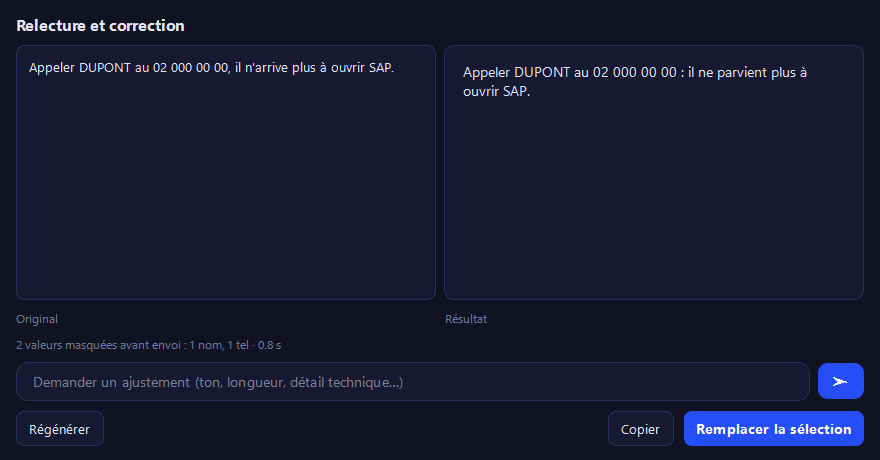
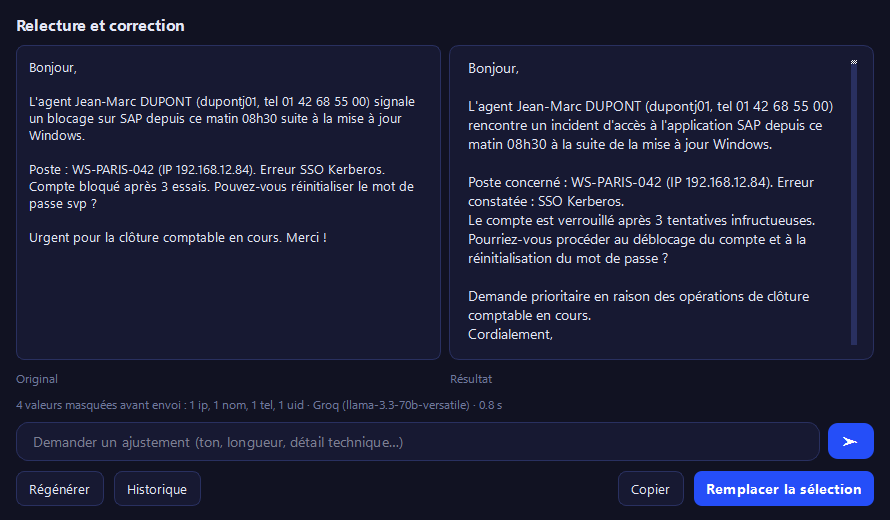
Relire une entrée d'historique dans la fenêtre de résultat
Le journal listait les transformations passées sans permettre d'en relire
une : un clic copiait l'aperçu dans le presse-papiers, et c'était tout. La
fenêtre de résultat savait pourtant déjà tout afficher — texte, comparaison,
durée, valeurs masquées. Il ne manquait que le branchement.

Le panneau émet l'entrée cliquée, la palette la relaie, l'application la
rend. Un bouton « Historique » dans la fenêtre de résultat fait le chemin
inverse.

Quand le texte n'a pas été conservé — le défaut, l'historique ne gardant que
les métadonnées — le message dit pourquoi et comment changer d'avis, en
citant l'onglet et le libellé exacts de la case concernée.

Au passage : le décompte de tests du changelog annonçait 291 là où la suite
en exécute 298, et le nouveau test échouait au contrôle de formatage, ce qui
aurait suffi à faire rougir l'intégration continue.

diff --git a/src/scribedesk/ui/app.py b/src/scribedesk/ui/app.py
@@ -130,6 +130,8 @@ class ScribeDeskApp:
         self._popup.submitted.connect(self._run_action)
         self._popup.custom_submitted.connect(self._run_custom)
         self._popup.library_changed.connect(self._on_library_changed)
+        self._popup.history_selected.connect(self._on_history_selected)
+        self._response.history_requested.connect(self._on_history_requested)
         self._response.replace_requested.connect(self._replace_selection)
         self._response.regenerate_requested.connect(self._regenerate)
         self._response.cancel_requested.connect(self._cancel)
@@ -511,6 +513,51 @@ class ScribeDeskApp:
         )
         self._last_request = (action, body, {})
         self._launch(action, body, {})
+
+    def _on_history_requested(self) -> None:
+        """Bascule de la fenêtre de réponse vers le panneau d'historique de la palette."""
+        self._response.hide()
+        self._popup.present_history()
+
+    def _on_history_selected(self, entry: object) -> None:
+        """Affiche le contenu d'une entrée d'historique dans la fenêtre de résultat."""
+        self._popup.hide()
+        action_name = getattr(entry, "action", "Historique")
+        input_text = getattr(entry, "input_preview", "")
+        output_text = getattr(entry, "output_preview", "")
+        elapsed = getattr(entry, "elapsed", 0.0)
+        redacted = getattr(entry, "redacted", 0)
+        provider = getattr(entry, "provider", "")
+        model = getattr(entry, "model", "")
+
+        self._response.begin(f"Historique : {action_name}")
+        if input_text and output_text:
+            self._response.set_comparison(input_text)
+        else:
+            self._response.set_comparison(None)
+
+        if output_text:
+            self._response.append(output_text)
+        elif input_text:
+            self._response.append(input_text)
+        else:
+            self._response.append(
+                "Le texte complet de cette requête n'avait pas été conservé sur ce poste.\n\n"
+                "Par défaut, ScribeDesk applique le principe de minimisation des données "
+                "(RGPD) et ne stocke que les métadonnées pour préserver la vie privée.\n\n"
+                "Pour conserver l'intégralité des prochains textes générés et les relire ici :\n"
+                "1. Ouvrez Préférences (icône ScribeDesk dans la zone de notification)\n"
+                "2. Dans l'onglet « Général », cochez « Y conserver aussi les textes traités »."
+            )
+
+        info = (
+            f"{redacted} valeur(s) masquée(s)" if redacted else "Traitement sans données masquées"
+        )
+        prov = f" · {provider}" + (f" ({model})" if model else "")
+        self._response.finish(f"{info}{prov}", elapsed=elapsed)
+        self._response.show()
+        self._response.raise_()
+        self._response.activateWindow()
 
     def _comparison_source(
         self,

diff --git a/tests/test_ui.py b/tests/test_ui.py
@@ -19,7 +19,7 @@ os.environ.setdefault("QT_QPA_PLATFORM", "offscreen")
 
 pytest.importorskip("PySide6", reason="interface graphique non installée")
 
-from PySide6.QtWidgets import QApplication
+from PySide6.QtWidgets import QApplication, QWidget
 
 from scribedesk.config import Settings, paths
 from scribedesk.prompts import Action, ActionLibrary, load_library
@@ -1282,6 +1282,31 @@ def test_cliquer_une_entree_la_copie(qapp: QApplication) -> None:
     clipboard = QGuiApplication.clipboard()
     assert clipboard is not None and clipboard.text() == "texte a recopier"
     assert "presse-papier" in popup._count.text()
+
+
+def test_selectionner_une_entree_d_historique_emet_signal(qapp: QApplication) -> None:
+    from scribedesk.history import HistoryEntry
+
+    popup = _popup(qapp)
+    entree = HistoryEntry(
+        timestamp="2026-09-22T20:00:00+00:00",
+        action="Relecture et correction",
+        provider="Groq",
+        output_preview="texte corrige",
+    )
+    popup._history.append(entree)
+    popup._switch_view("history")
+
+    recu: list[object] = []
+    popup.history_selected.connect(recu.append)
+
+    lignes = [
+        w for w in popup._history_panel.findChildren(QWidget) if w.objectName() == "historyRow"
+    ]
+    assert len(lignes) == 1
+    lignes[0].clicked.emit()
+    assert len(recu) == 1
+    assert getattr(recu[0], "output_preview", "") == "texte corrige"
 
 
 def test_un_changement_de_theme_atteint_les_panneaux(qapp: QApplication) -> None:

diff --git a/src/scribedesk/ui/popup.py b/src/scribedesk/ui/popup.py
@@ -138,6 +138,9 @@ class PopupWindow(QWidget):
     library_changed = Signal(object)
     """Émis quand la bibliothèque d'actions est modifiée."""
 
+    history_selected = Signal(object)
+    """Émis quand une entrée d'historique doit être affichée dans la fenêtre de résultat."""
+
     def __init__(
         self,
         library: ActionLibrary,
@@ -204,6 +207,7 @@ class PopupWindow(QWidget):
         self._editor_panel.hide()
 
         self._history_panel = HistoryPanel(self._history, self._palette, card)
+        self._history_panel.entry_selected.connect(self.history_selected)
         layout.addWidget(self._history_panel)
         self._history_panel.hide()
 
@@ -634,6 +638,19 @@ class PopupWindow(QWidget):
         self.raise_()
         self.activateWindow()
         self._custom.setFocus()
+
+    def present_history(self) -> None:
+        """Affiche directement la palette sur le panneau d'historique."""
+        self._user_moved = False
+        self._selection = ""
+        self._cancel_params()
+        self._switch_view("history")
+        self.adjustSize()
+        self._move_near_cursor()
+
+        self.show()
+        self.raise_()
+        self.activateWindow()
 
     def _move_near_cursor(self) -> None:
         """Positionne la fenêtre sans la laisser déborder de l'écran."""

diff --git a/src/scribedesk/ui/response.py b/src/scribedesk/ui/response.py
@@ -40,6 +40,9 @@ class ResponseWindow(QWidget):
     cancel_requested = Signal()
     """L'utilisateur interrompt la génération en cours."""
 
+    history_requested = Signal()
+    """L'utilisateur souhaite consulter l'historique."""
+
     adjustment_requested = Signal(str, str)
     """Retouche demandée : ``(consigne, texte affiché)``.
 
@@ -195,6 +198,10 @@ class ResponseWindow(QWidget):
         self._regenerate = QPushButton("Régénérer", self)
         self._regenerate.clicked.connect(self.regenerate_requested)
 
+        self._history = QPushButton("Historique", self)
+        self._history.setToolTip("Consulter l'historique des requêtes")
+        self._history.clicked.connect(self.history_requested)
+
         self._copy = QPushButton("Copier", self)
         self._copy.clicked.connect(self._copy_to_clipboard)
 
@@ -206,6 +213,7 @@ class ResponseWindow(QWidget):
 
         row.addWidget(self._cancel)
         row.addWidget(self._regenerate)
+        row.addWidget(self._history)
         row.addStretch(1)
         row.addWidget(self._copy)
         row.addWidget(self._replace)

diff --git a/src/scribedesk/ui/panels.py b/src/scribedesk/ui/panels.py
@@ -399,6 +399,8 @@ class HistoryPanel(QWidget):
 
     status = Signal(str)
     entry_copied = Signal(str)
+    entry_selected = Signal(object)
+    """Émis quand une entrée d'historique est cliquée pour être affichée."""
 
     def __init__(self, history: History, palette: Palette, parent: QWidget | None = None):
         super().__init__(parent)
@@ -501,7 +503,11 @@ class HistoryPanel(QWidget):
         supprimer.clicked.connect(lambda _, i=rang: self.delete_entry(i))
         disposition.addWidget(supprimer)
 
-        ligne.clicked.connect(lambda texte=apercu: self.copy_entry(texte))
+        def _on_click() -> None:
+            self.copy_entry(apercu)
+            self.entry_selected.emit(entree)
+
+        ligne.clicked.connect(_on_click)
         return ligne
 
     # -- Opérations -------------------------------------------------------

diff --git a/CHANGELOG.md b/CHANGELOG.md
@@ -60,6 +60,9 @@ Première version publique.
   les invites françaises livrées ne traduisent pas un ticket anglais.
 - **Éditeur d'actions intégré** : créer, modifier, importer, exporter.
 - **Action de traduction** optionnelle, désactivée par défaut.
+- **Consultation directe de l'historique** : cliquer sur une entrée passée l'affiche
+  dans la fenêtre de résultat (texte, comparaison, durée, jetons masqués), et un
+  bouton « Historique » dans la fenêtre de résultat permet d'y revenir.
 
 ### Moteurs
 
@@ -80,6 +83,6 @@ serveur distant est correctement rapporté comme une sortie réseau.
 
 ### Qualité
 
-290 tests, `mypy` en mode strict, `ruff` sans exception non documentée.
+298 tests, `mypy` en mode strict, `ruff` sans exception non documentée.
 Un test vérifie dans un interpréteur neuf que le cœur n'importe ni Qt ni
 `httpx` — ce qui garde `scribedesk redact` à 214 ms de démarrage.
